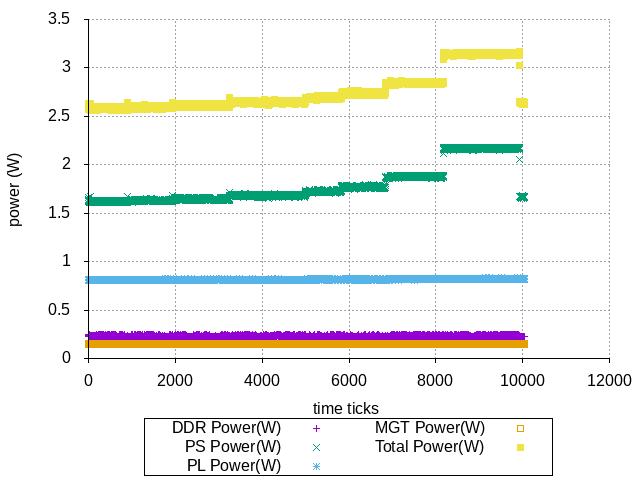
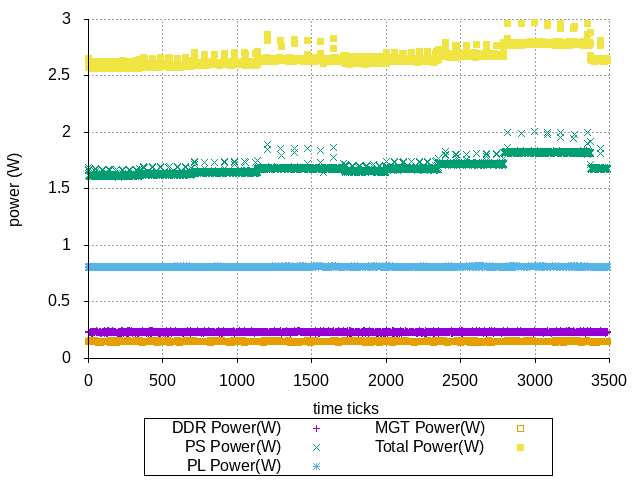
updating the readme for zcu102 power porfile

diff --git a/power_prof/readme.md b/power_prof/readme.md
@@ -5,20 +5,21 @@
 
 # Power profiling for CPUs
 
-The following steps, implemented in the `cpu-power-profiling.sh` script, were done to get the power consumption from the zcu102 processors (PS):
+The following steps, implemented in the `cpu-power-profiling-rt-dag.sh` script, were done to get the power consumption from the zcu102 processors (PS):
  - The island is set to `userspace` governor
- - Launch the power sampler with &
+ - Launch the power sampler with & and pinned to a specific core
  - Set idle workload
  - For each frequency
     - Set the CPU frequency
-    - Wait for 30 seconds
- - Set high workload using four `yes` processes
+    - Wait for 10 seconds
+ - Set a high workload using `rt-dag -t`, with high priority and pinned to a specific core
  - For each frequency
     - Set the CPU frequency
-    - Wait for 30 seconds
- - kill all `yes` processes
+    - Wait for 10 seconds
+ - kill all `rt-dag` processes
  - kill the power sampler
 
+The `cpu-power-profiling.sh` is similar, but the workload in question is a `yes` process.
 
 Running this script generated the follwing plots:
 
@@ -28,14 +29,16 @@ And the following table after running the script `split-average.sh`:
 
 |  Freq (MHz)        | Idle Power (W)  | Busy Power(W)  |
 |--------------------|-----------------|----------------|
-|      			1200 |         1.68179 | 	    2.16797 |
-| 			     600 |         1.64398 |        1.87808 |
-| 			     400 |         1.62836 |        1.77113 |
-| 			     300 |         1.62087 |        1.72494 |
+|      			1200 |         1.68586 | 	    1.82729 |
+| 			     600 |         1.65163 |        1.72455 |
+| 			     400 |         1.63534 |        1.68220 |
+| 			     300 |         1.62216 |        1.65982 |
+
+For instance, this means that at 1200 MHz and a single CPU at 100% would increase the PS power consumption in 1.82729 - 1.68586 = .14143 W. 4 CPUs with a full load would result in .14143 * 4 = .56572 W increase.
 
 # Power profiling PL in idle
 
-Using the same script above, PL idle power is **0.815439**.
+Using the same script above, PL idle power is **0.812484**. The PL busy power depends on the last configured IP. For instance, preliminary results shows that a 128x128 mat_mul consumes about 1.2W and a 16x16 mat_mul consumes 0.9W. Another very important thing is the instant FPGA power depends on the **last configuration**. Meaning that, even the IP is not used, it continues to draw the same power compared to when it was being used. The **SOLUTION** would be to substantially change the power model to allow power per task instead of power per island, as it is now.
 
 ## Power down unused blocks
 
